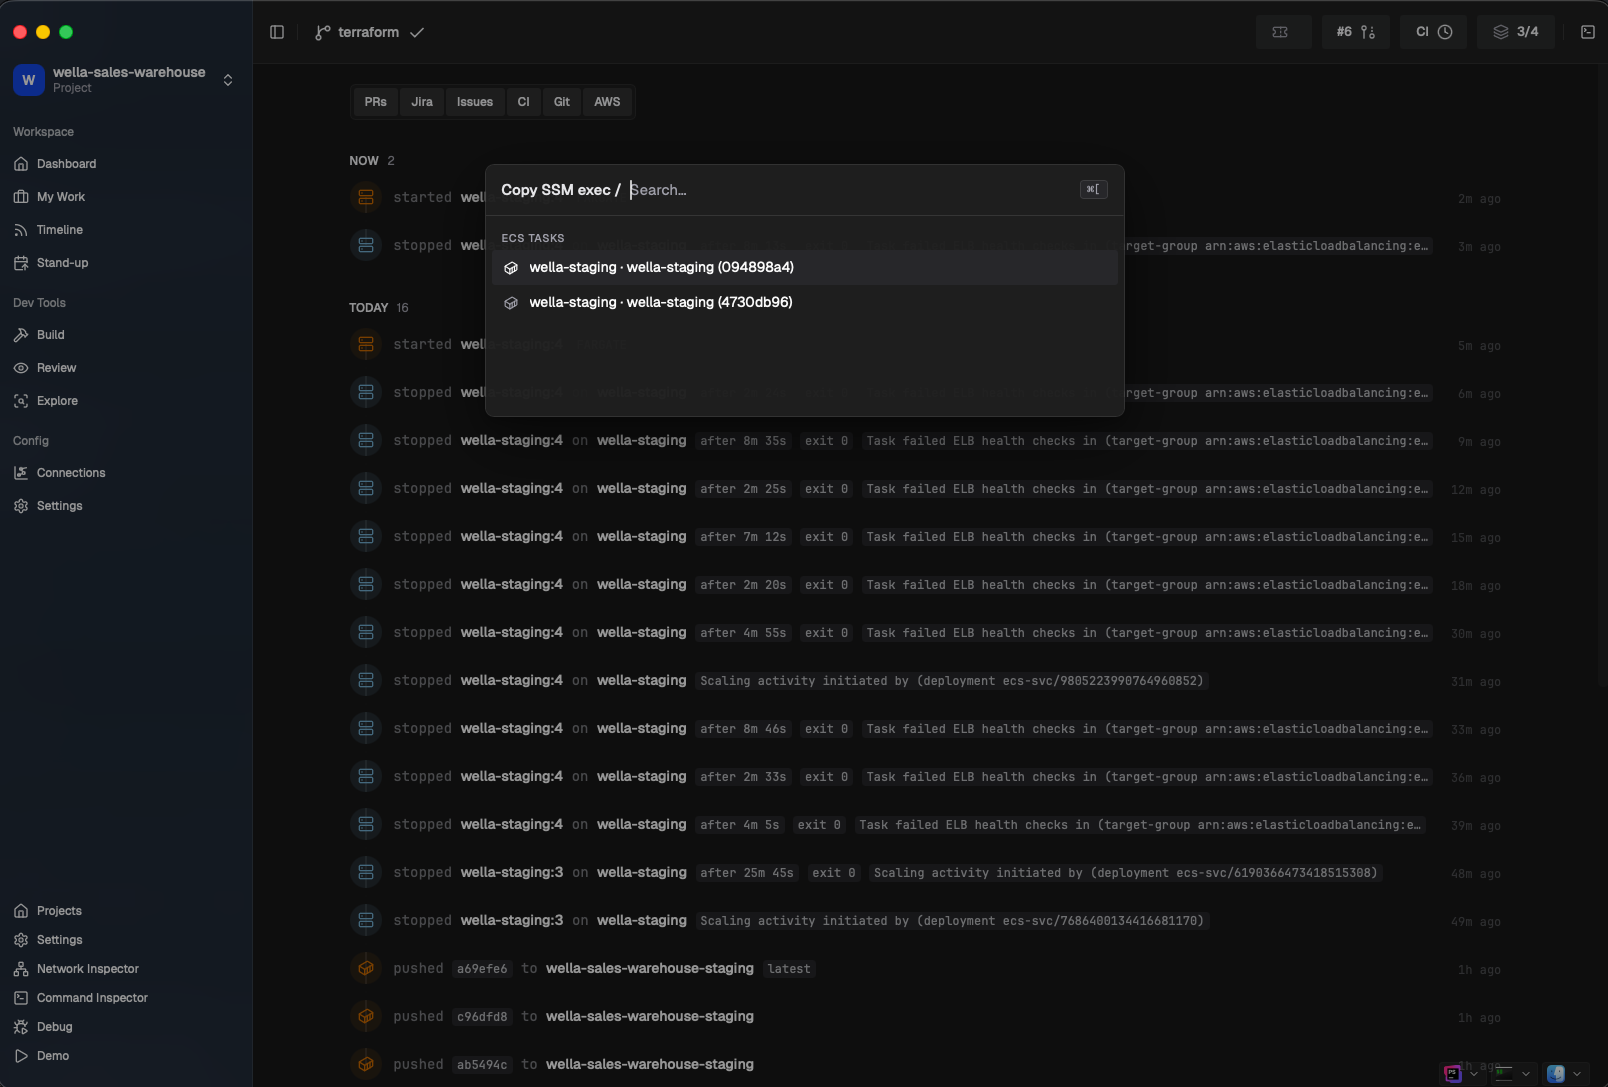
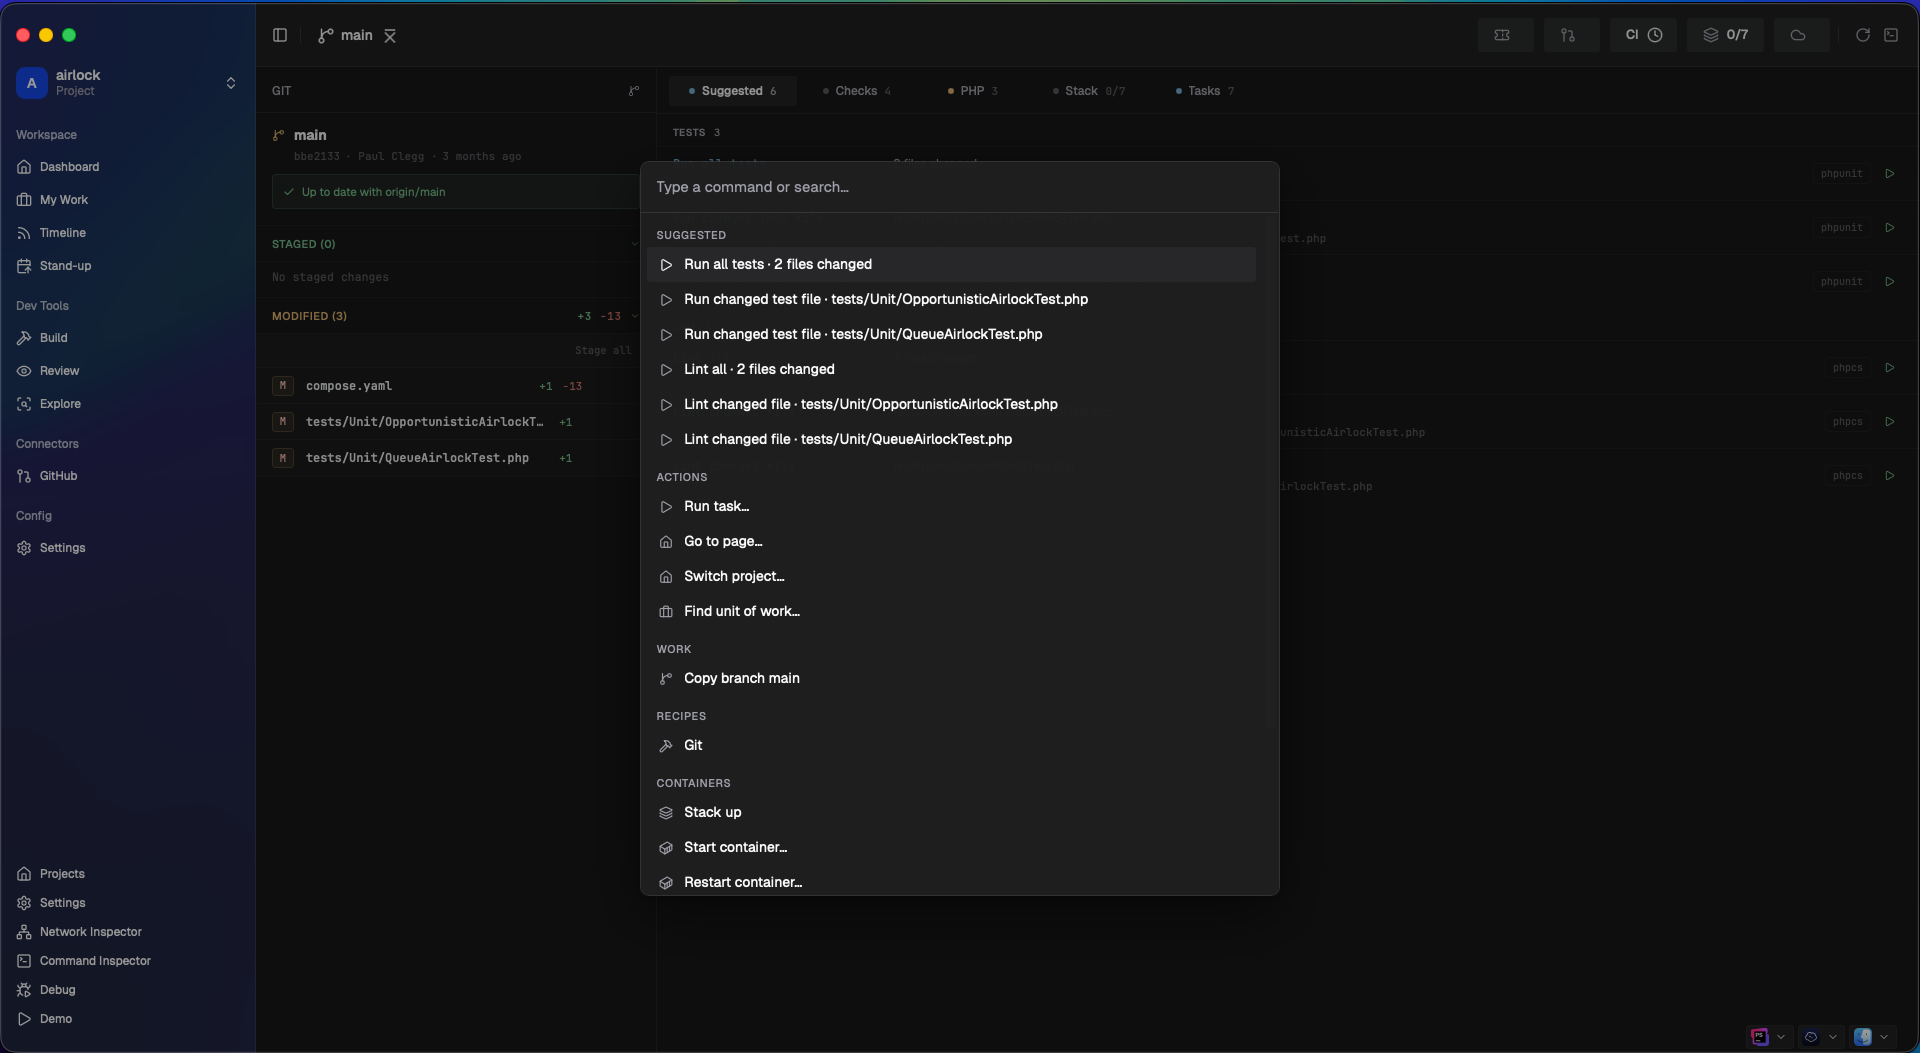
WIP from June session: about page, index edits, refreshed screenshots

diff --git a/docs/index.md b/docs/index.md
@@ -4,7 +4,7 @@ layout: home
 hero:
   name: Salience
   text: Home Assistant for developer tools.
-  tagline: One view of your branch, ticket, PR, CI, deploy, and logs — calm by default, never a notification.
+  tagline: A single view of all your work across ticket, PR, CI, deploy and observability - anchored by the branch you've currently checked out
   image:
     src: /screenshots/my-work-kanban.png
     alt: Salience showing the My Work kanban view
@@ -12,26 +12,59 @@ hero:
     - theme: brand
       text: Download for macOS
       link: https://github.com/clegginabox/salience-macos/releases/latest
-    - theme: alt
+    - theme: altq
       text: Read the docs
       link: /docs/
 
 features:
+  - title: Local and secure
+    details: asdas
   - title: Calm by default
-    details: No inbox, no notifications, no modals. State carries the context — when something stops mattering, it stops being there.
+    details: No inbox, no notifications, no modals. Salience filters everything else to bring you what's important right now.
   - title: Intent-aware shortcuts
-    details: Change a test file and "run this test" appears. Pull new dependencies and "npm install" shows up. The right action surfaces where you already are.
+    details: Change a test file and "run this test" appears. Pull new dependencies and "npm install" shows up. Stop typing the same commands over and over again.
   - title: Cross-source insights
-    details: Branch → ticket → PR → CI → deploy → logs in one view. Your AI agent gets the same correlated context, so stop copying and pasting.
+    details: Get rid of all those browser tabs and let the answers come to you. "Did the build pass?", "What's my stand up today?" "Are my tickets in sync with Jira?"
 ---
 
 ## What is Salience
 
-Salience is a desktop app for developers. It follows the branch wherever it goes — ticket, PR, CI, deploy, metrics — pulling everything into one ambient view that lives on your second monitor.
+Salience is Home Assistant for your dev tools — an ambient pane that lives on
+your second monitor, calm until something needs your attention.
 
-It's built around an idea: salient events are an attentional mechanism by which organisms learn and survive. Your tooling should help you focus on the pertinent subset of what's available — not surface every notification it can.
+It was inspired by two things: a recent contract where I essentially worked as
+a one-man scrum team, and Home Assistant.
 
-A failed build isn't a line in your inbox; it's a state, and state carries context. A PR review request on work that unblocks three other tickets in the sprint is louder than one that doesn't. Salience uses that context so you don't have to remember what's important.
+Over a few weeks, I was late for a handful of meetings. I got up on time, got
+ready on time, got into my car on time. And when I started the car, the fuel
+gauge informed me I didn't have enough fuel to make it to the meeting. A detour
+to the petrol station — **late again**.
+
+My car has a phone app, my calendar lives online, and my house has smart
+lights. Each lives in its own silo. Home Assistant brings those three silos
+into a single place and makes the following possible:
+
+> When I turn my lights on in a morning, if the meeting in my calendar is
+> further away than my remaining fuel will take me — turn the lights red.
+
+It's unobtrusive. It isn't a one-time notification I can swipe away and forget.
+It's information that already exists, brought to me instead of me having to go
+and find it. Most importantly, with enough time to act on it. So I'm not
+late...again.
+
+Working as a one-man scrum team was exhausting. I was drowning in tabs and
+windows: IDEs, terminals, Teams, email, Docker, Jira, Bitbucket, TeamCity,
+AWS, Sentry. Context switching meant another set of everything.
+
+Many of those tabs existed to repeat the same actions — run the tests, SSH into
+an instance, run a migration. The rest existed to answer questions whose
+answers lived across several tools at once: *Is my Jira ticket in sync with my
+work? What caused that Sentry issue? What's actually deployed right now?*
+
+Just as Home Assistant doesn't replace my calendar or my car's app, Salience
+doesn't replace any of those tools. It replaces the tabs — and the questions
+with **answers**. A red light at just the right time.
+
 
 ## See it work
 
@@ -51,10 +84,25 @@ A failed build isn't a line in your inbox; it's a state, and state carries conte
 
 ![Stand-up grouped by status: changes requested, stuck in review, CI failing](/screenshots/my-work-list.png)
 
-## How it fits together
+## How it works
 
-Salience connects to your tools (git, GitHub, Bitbucket, Jira, Docker, …) and produces **entities** — branches, PRs, tickets, containers. A small **derivation engine** joins entities across sources to surface cross-source insights no single tool can know on its own. The UI is composed of **tiles** you can rearrange.
+Salience connects to your tools (git, GitHub, Bitbucket, Jira, Docker, AWS)
+and turns what it finds into **entities** — branches, PRs, tickets, CI runs,
+containers. Unlike a dashboard, these aren't fetched, shown once, and thrown 
+away. Entities are typed, queryable and persisted as a correlated graph in an 
+embedded database on your machine.
 
-The same correlated context is exposed over an **MCP server**, so Claude, Codex, Cursor, or any MCP-aware tool can answer "what's my stand-up today?" without you copying and pasting.
+Every change streams out of the store as a live-query delta into a
+derivation engine. **Correlators** draw edges between entities from
+different sources — this branch implements that ticket, this container runs
+that image, this PR's commit is what's deployed. **Rules** then promote what the
+graph knows into **situations** — *"PR merged but the ticket is still open"* —
+each with a **loudness** that decides how hard it tugs at your attention at 
+the current moment in time.
+
+The UI is just tiles over that graph. And because the graph is the substrate, the 
+same correlated context is open to your AI tools: Salience ships with an **MCP server**. 
+Point your AI agent at it and ask in natural language:
+"What's my stand-up today?", "Can I unblock anyone?", "What work was on the last deployment?".
 
 [Read the docs →](/docs/) · [View on GitHub →](https://github.com/clegginabox/salience-macos)

diff --git a/docs/docs/about.md b/docs/docs/about.md
@@ -1,0 +1,37 @@
+## About Salience
+
+Salience is Home Assistant for your dev tools — an ambient pane that lives on
+your second monitor, calm until something needs your attention.
+
+It was inspired by two things: a recent contract where I essentially worked as
+a one-man scrum team, and Home Assistant.
+
+Over a few weeks, I was late for a handful of meetings. I got up on time, got
+ready on time, got into my car on time. And when I started the car, the fuel
+gauge informed me I didn't have enough fuel to make it to the meeting. A detour
+to the petrol station — late again.
+
+My car has a phone app, my calendar lives online, and my house has smart
+lights. Each lives in its own silo. Home Assistant brings those three silos
+into a single place, and makes this possible:
+
+> When I turn my lights on in a morning, if the meeting in my calendar is
+> further away than my remaining fuel will take me — turn the lights red.
+
+It's unobtrusive. It isn't a one-time notification I can swipe away and forget.
+It's information that already exists, brought to me instead of me having to go
+and find it. Most importantly, with enough time to act on it. So I'm not
+late - again.
+
+Working as a one-man scrum team was exhausting. I was drowning in tabs and 
+windows: IDEs, terminals, Teams, email, Docker, Jira, Bitbucket, TeamCity, 
+AWS, Sentry. Context switching meant another set of everything.
+
+Many of those tabs existed to repeat the same actions — run the tests, SSH into
+an instance, run a migration. The rest existed to answer questions whose
+answers lived across several tools at once: *Is my Jira ticket in sync with my
+work? What caused that Sentry issue? What's actually deployed right now?*
+
+Just as Home Assistant doesn't replace my calendar or my car's app, Salience
+doesn't replace any of those tools. It replaces the tabs - and the questions
+with *answers*. A red light at just the right time.
